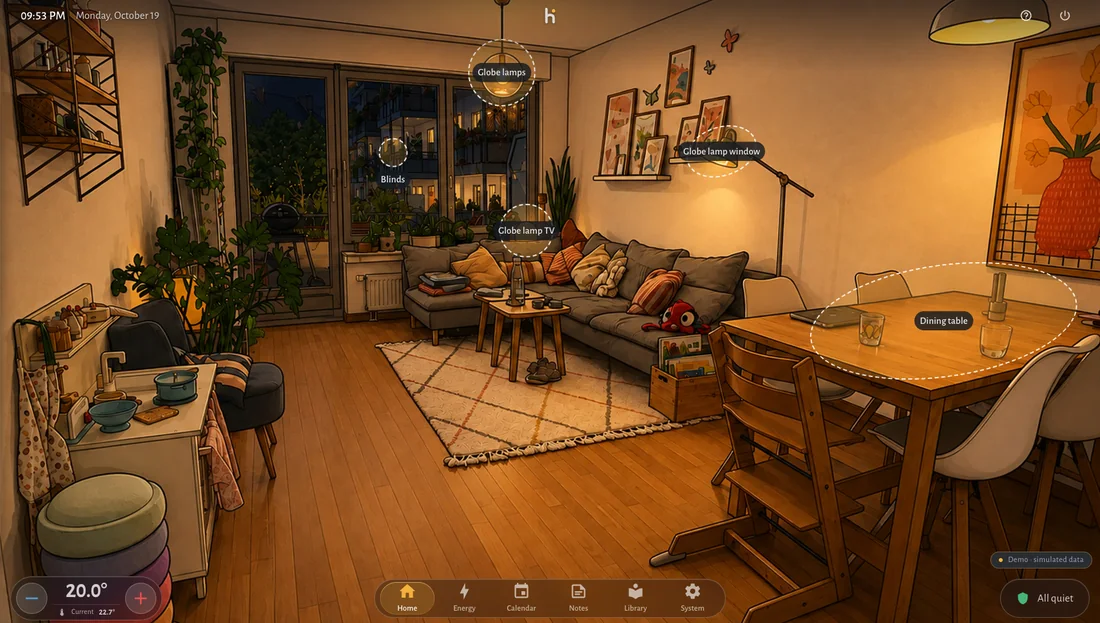
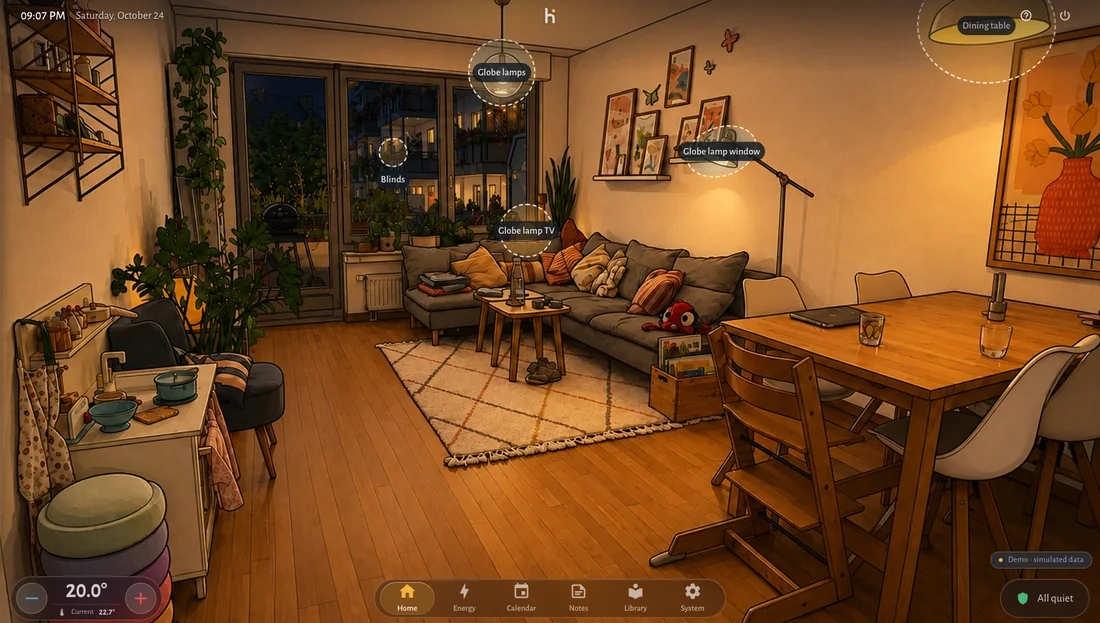
chore(public): promote private source 15e90aa587f2
Private-Source: 15e90aa587f27b325044e43b7ae89360269e97a0

diff --git a/website/index.html b/website/index.html
@@ -149,18 +149,28 @@
       <div class="wall-moment picture-moment">
         <div class="moment-copy">
           <h3>Tap the lamp<br>in the picture.</h3>
-          <p>Give each lamp its place in the room picture, and the picture becomes the switch. Tap the lamp by the sofa and it comes on; hold it for brightness. In the image-control view the controls step aside completely, and a double tap shows what is where. On the wall panel and in the iPad app.</p>
+          <p>Give each lamp its place in the room picture, and the picture becomes the switch. Tap the lamp by the sofa and it comes on; hold it for brightness. On the wall panel, a lamp that is off goes pale in the picture and gets its warm colour back the moment you tap it. In the image-control view the controls step aside completely, and a double tap shows what is where. Image control works on the wall panel and in the iPad app.</p>
           <a class="text-link" href="docs/using/home-screen/#three-views">How image control works <span aria-hidden="true">→</span></a>
         </div>
         <figure>
-          <a class="image-link" href="media/picture-control.webp" aria-label="View the full-size image-control screenshot">
-            <img src="media/picture-control-1100.webp"
-                 srcset="media/picture-control-700.webp 700w, media/picture-control-1100.webp 1100w, media/picture-control.webp 1696w"
+          <a class="image-link lamp-sequence" href="media/picture-control.webp" aria-label="View the image-control screenshot with every device labelled">
+            <img src="media/picture-lamps-0-1100.webp"
+                 srcset="media/picture-lamps-0-700.webp 700w, media/picture-lamps-0-1100.webp 1100w, media/picture-lamps-0.webp 2140w"
                  sizes="(min-width: 1440px) 850px, (min-width: 1101px) 62vw, calc(100vw - 48px)"
-                 width="1696" height="960" loading="lazy" decoding="async"
-                 alt="The living room in the evening with no control panel. Dashed outlines mark the globe lamps, the lamp by the window, the TV lamp, the blinds and the light over the dining table, each with its name.">
+                 width="2140" height="1204" loading="lazy" decoding="async"
+                 alt="The living room in the evening, up close. The TV lamp glows; the floor lamp and the globe lamp by the window are off and sit pale in the picture. A tap on each brings it on, and it takes back its warm colour.">
+            <img class="lamp-frame-1" src="media/picture-lamps-1-1100.webp"
+                 srcset="media/picture-lamps-1-700.webp 700w, media/picture-lamps-1-1100.webp 1100w, media/picture-lamps-1.webp 2140w"
+                 sizes="(min-width: 1440px) 850px, (min-width: 1101px) 62vw, calc(100vw - 48px)"
+                 width="2140" height="1204" loading="lazy" decoding="async" alt="">
+            <img class="lamp-frame-2" src="media/picture-lamps-2-1100.webp"
+                 srcset="media/picture-lamps-2-700.webp 700w, media/picture-lamps-2-1100.webp 1100w, media/picture-lamps-2.webp 2140w"
+                 sizes="(min-width: 1440px) 850px, (min-width: 1101px) 62vw, calc(100vw - 48px)"
+                 width="2140" height="1204" loading="lazy" decoding="async" alt="">
+            <span class="lamp-tap lamp-tap-1" aria-hidden="true"></span>
+            <span class="lamp-tap lamp-tap-2" aria-hidden="true"></span>
           </a>
-          <figcaption><span>Image control · web demo, after a double tap.</span><a href="media/picture-control.webp">Full size <span aria-hidden="true">↗</span></a></figcaption>
+          <figcaption><span>Image control · web demo. Lamps that are off sit pale in the picture.</span><a href="media/picture-control.webp">With labels <span aria-hidden="true">↗</span></a></figcaption>
         </figure>
       </div>
     </div>

diff --git a/app/src/lib/stresshaus/hostile-home.ts b/app/src/lib/stresshaus/hostile-home.ts
@@ -216,6 +216,14 @@ export function hostileHome(now: Date = new Date()): HostileHome {
     friendly_name: 'Alle Lichter', brightness: 200, color_mode: 'brightness', supported_color_modes: ['brightness'],
     entity_id: ['light.wohnzimmer_decke', 'light.wohnzimmer_stehlampe', 'light.gibt_es_nicht'],
   }, { area_id: 'wohnzimmer' });
+  /* Lichtgruppe neben ihren Lampen, eine davon aus (simon42, Cpt.Hardy, 0.47.0):
+     der Sammelwert heißt „an“. Die Szenen-Vorschau darf beim Zurückstellen
+     nicht über die Gruppe die ausgeschaltete Lampe wieder anschalten. Mitglieder
+     doppelt, mit Fremd-Domain und ohne Text, wie YAML-Gruppen sie tragen. */
+  add('light.wohnzimmer_lesegruppe', 'on', {
+    friendly_name: 'Leselicht', brightness: 128, color_mode: 'brightness', supported_color_modes: ['brightness'],
+    entity_id: ['light.wohnzimmer_decke', 'light.wohnzimmer', 'light.wohnzimmer_decke', 'switch.wohnzimmer', 42],
+  }, { area_id: 'wohnzimmer' });
   // Gleicher Objektname in drei Domains, alle sichtbar im selben Raum.
   add('light.wohnzimmer', 'off', { friendly_name: 'Wohnzimmer', supported_color_modes: ['brightness'], brightness: null }, { area_id: 'wohnzimmer' });
   add('switch.wohnzimmer', 'on', { friendly_name: 'Wohnzimmer' }, { area_id: 'wohnzimmer' });
@@ -782,4 +790,19 @@ export const HOSTILE_STANDBY_LAYOUTS: HostileStandbyLayout[] = [
   { name: 'Alles winzig auf einem Punkt', raw: '{"version":1,"elements":{"clock":{"x":50,"y":50,"size":1},"weather":{"x":50,"y":50,"size":1},"week":{"x":50,"y":50,"size":1},"shopping":{"x":50,"y":50,"size":1},"postits":{"x":50,"y":50,"size":1}}}' },
   { name: 'Fremde Elemente und Bruchteile', raw: '{"version":1,"elements":{"uhr":{"x":50,"y":50},"clock":{"x":33.333333,"y":66.666666,"size":2.5,"rotation":45},"__proto__":{"x":1,"y":1}}}' },
   { name: 'Tausend Elemente', raw: JSON.stringify({ version: 1, elements: Object.fromEntries(Array.from({ length: 1000 }, (_, i) => [`el${i}`, { x: i, y: i, size: 3 }])) }) },
+];
+
+/* Gespeicherte Lichtzonen (R67, seit 2026-10-24 im Produktionsbau): Wer
+   Zonen nur als Tippfläche gezogen hat, sieht sie jetzt als blassen Schleier,
+   sobald die Lampe aus ist. Der Parser muss jeden Stand zu Zonen im Bild und
+   in den Grenzen des Editors machen; die iOS-App liest denselben Schlüssel. */
+export interface HostileLightZones { name: string; raw: string }
+
+export const HOSTILE_LIGHT_ZONES: HostileLightZones[] = [
+  { name: 'Alter Kreis ohne Ellipse', raw: '{"version":1,"rooms":{"wohnzimmer":{"light.stehlampe":{"x":0.65,"y":0.3,"radius":0.03}}}}' },
+  { name: 'Riesenzone über dem ganzen Bild', raw: '{"version":1,"rooms":{"dach":{"light.decke":{"x":0.5,"y":0.1,"radius":5,"ry":3,"rotation":0}}}}' },
+  { name: 'Texte, null und Unendlich', raw: '{"version":1,"rooms":{"bad":{"light.spiegel":{"x":"0.2","y":null,"radius":1e999},"light.decke":{"x":0.5,"y":0.5,"radius":0.1,"ry":"flach","rotation":"schief"}}}}' },
+  { name: 'Am Rand und gedreht', raw: '{"version":1,"rooms":{"flur":{"light.flur":{"x":0,"y":1,"radius":0.4,"ry":0.008,"rotation":-725}}}}' },
+  { name: 'Raum als Liste, fremde Version', raw: '{"version":2,"rooms":[]}' },
+  { name: 'Tausend Lampen', raw: JSON.stringify({ version: 1, rooms: { gross: Object.fromEntries(Array.from({ length: 1000 }, (_, i) => [`light.l${i}`, { x: (i % 100) / 100, y: 0.5, radius: 0.02 }])) } }) },
 ];

diff --git a/app/src/lib/components/RoomEdit.svelte b/app/src/lib/components/RoomEdit.svelte
@@ -98,6 +98,9 @@
   let view = $state<'devices' | 'immersion' | 'background'>('devices');
   let selectedLightId = $state('');
   let imagePage = $state<'overview' | 'change' | 'setup'>('overview');
+  /* „Geräte zuweisen“ steht wieder in den Raumeinstellungen (simon42,
+     Cpt.Hardy, 0.47.0) — der Pfeil führt dorthin zurück, woher man kam. */
+  let immersionBack = $state<'devices' | 'background'>('background');
   /* Geräte im Bild (Owner 2026-10-19): jedes Gerät des Raums bekommt eine
      Stelle im Raumbild — Lampen eine Lichtzone, alle anderen einen Punkt. */
   const placeableDevices = $derived(roomImageDevices(room));
@@ -258,6 +261,7 @@
     releaseSearchLift();
     view = requestedView;
     imagePage = 'overview';
+    immersionBack = 'background';
     selectedLightId = untrack(() => requestedView === 'immersion'
       ? (roomImageDevices(room).find(device => !roomLightPlacements(room?.id)[device.entityId]) ?? roomImageDevices(room)[0])?.entityId ?? ''
       : '');
@@ -273,7 +277,8 @@
     openSceneEdit(roomId, scenes(roomId)[0]?.id ?? 'gemuetlich');
   }
 
-  function openImmersionEditor() {
+  function openImmersionEditor(back: 'devices' | 'background' = 'background') {
+    immersionBack = back;
     view = 'immersion';
     selectedLightId = placeableDevices[0]?.entityId ?? '';
   }
@@ -733,8 +738,8 @@
         {#snippet editHeader()}
           <header class="ld-header">
             {#if view !== 'devices'}
-              <button class="re-btn pressable" type="button" aria-label={view === 'immersion' || imagePage !== 'overview' ? m.room_background() : m.room_back_to_devices()}
-                      onclick={() => { if (view === 'background' && imagePage !== 'overview') imagePage = 'overview'; else view = view === 'immersion' ? 'background' : 'devices'; selectedLightId = ''; }}>
+              <button class="re-btn pressable" type="button" aria-label={(view === 'immersion' && immersionBack === 'background') || imagePage !== 'overview' ? m.room_background() : m.room_back_to_devices()}
+                      onclick={() => { if (view === 'background' && imagePage !== 'overview') imagePage = 'overview'; else view = view === 'immersion' ? immersionBack : 'devices'; selectedLightId = ''; }}>
                 <Icon name="i-chevron-left" cls="icon icon-md" />
               </button>
             {:else if adding}
@@ -898,7 +903,14 @@
               </span>
               <Icon name="i-chevron-right" cls="icon icon-md" />
             </button>
-
+            <button class="re-quick-entry pressable" type="button" onclick={() => openImmersionEditor('devices')}>
+              <span class="re-icon" aria-hidden="true"><Icon name="i-cursor-default-click" /></span>
+              <span class="re-label">
+                <span class="re-name">{m.room_assign_lamps()}</span>
+                <small class="re-meta">{m.room_set_light_positions()}</small>
+              </span>
+              <Icon name="i-chevron-right" cls="icon icon-md" />
+            </button>
           </div>
         </section>
         {/snippet}

diff --git a/website/site.css b/website/site.css
@@ -134,6 +134,21 @@ figcaption a { flex: none; padding-block: var(--space-3); }
 /* The picture as the switch: the wall moment's layout on the night ground. */
 .picture-moment { margin-top: var(--space-8); padding-top: var(--space-8); border-top: var(--rule-width) solid var(--night-line); }
 .picture-moment h3 { font-size: var(--heading-size); }
+/* Lampe im Bild an und aus (R67): drei Aufnahmen übereinander, die oberen
+   blenden nacheinander ein, ein Ring zeigt den Fingertipp auf der Lampe. Nur
+   Deckkraft und Transform; ohne Bewegung steht das mittlere Bild still. */
+a.lamp-sequence { position: relative; display: grid; grid-template-columns: minmax(0, 1fr); overflow: hidden; border-radius: var(--radius-sm); }
+.lamp-sequence img { grid-area: 1 / 1; width: 100%; height: auto; }
+.lamp-frame-1, .lamp-frame-2 { opacity: 0; animation: 9s var(--ease-out) infinite; }
+.lamp-frame-1 { animation-name: lamp-frame-1; }
+.lamp-frame-2 { animation-name: lamp-frame-2; }
+.lamp-tap { position: absolute; width: 7%; aspect-ratio: 1; translate: -50% -50%; border: 2px solid rgb(255 255 255 / 0.9); border-radius: 50%; opacity: 0; pointer-events: none; animation: 9s ease-out infinite; }
+.lamp-tap-1 { left: 79.7%; top: 38.7%; animation-name: lamp-tap-1; }
+.lamp-tap-2 { left: 48%; top: 18.5%; animation-name: lamp-tap-2; }
+@keyframes lamp-frame-1 { 0%, 27% { opacity: 0; } 34%, 90% { opacity: 1; } 100% { opacity: 0; } }
+@keyframes lamp-frame-2 { 0%, 58% { opacity: 0; } 65%, 90% { opacity: 1; } 100% { opacity: 0; } }
+@keyframes lamp-tap-1 { 0%, 22% { opacity: 0; transform: scale(0.4); } 25% { opacity: 1; } 33%, 100% { opacity: 0; transform: scale(1.3); } }
+@keyframes lamp-tap-2 { 0%, 53% { opacity: 0; transform: scale(0.4); } 56% { opacity: 1; } 64%, 100% { opacity: 0; transform: scale(1.3); } }
 .light-story .moment-copy p, .light-story figcaption { color: var(--night-secondary); }
 
 /* D: a wide wall view, then a readable phone screen. */
@@ -264,6 +279,8 @@ details > p { max-width: 75ch; margin-bottom: var(--space-5); color: var(--ink-s
 }
 @media (prefers-reduced-motion: reduce) {
   *, *::before, *::after { transition-duration: 0ms !important; scroll-behavior: auto !important; }
+  .lamp-frame-1, .lamp-frame-2, .lamp-tap { animation: none; }
+  .lamp-frame-1 { opacity: 1; }
 }
 @media (forced-colors: active) {
   .preview-radio:checked + label { outline: var(--focus-width) solid Highlight; }

diff --git a/app/src/lib/state/scene-preview.test.ts b/app/src/lib/state/scene-preview.test.ts
@@ -1,0 +1,38 @@
+import { describe, expect, it, vi } from 'vitest';
+import { runtime } from '../adapter/runtime.svelte.ts';
+import type { Command } from '../adapter/types.ts';
+import { appState } from './app.svelte.ts';
+import { deviceManager } from './device-manager.svelte.ts';
+import { addToScene, previewScene, restoreScenePreview, scenes } from './scene-manager.svelte.ts';
+
+/* simon42, Cpt.Hardy, 0.47.0: Nach dem Szenen-Editor blieb eine Lampe an. Die
+   HA-Lichtgruppe stand neben ihren Lampen im Raum; ihr Sammelwert „an“ schaltete
+   beim Zurückstellen auch die Lampe wieder ein, die vorher aus war. */
+describe('Szenen-Vorschau stellt eine Lichtgruppe über ihre Lampen zurück', () => {
+  it('lässt die Gruppe unberührt und stellt jede Lampe einzeln zurück', () => {
+    const room = appState.rooms.find((r) => r.lights.filter((l) => l.entityId.startsWith('light.')).length >= 2)!;
+    const [a, b] = room.lights.filter((l) => l.entityId.startsWith('light.')).map((l) => l.entityId);
+    const group = 'light.stresshaus_gruppe';
+    const sceneId = scenes(room.id)[0]!.id;
+    const known = new Set(deviceManager.catalog.map((item) => item.entityId));
+    deviceManager.catalog = [
+      ...deviceManager.catalog,
+      ...[a, b].filter((id) => !known.has(id)).map((entityId) => ({ entityId, domain: 'light' as const, name: entityId })),
+      { entityId: group, domain: 'light', name: 'Alle Lichter', capabilities: { dimmable: true, members: [a, b, 'light.gibt_es_nicht'] } },
+    ];
+    runtime.store.set(a, { on: true, brightness: 80 });
+    runtime.store.set(b, { on: false, brightness: 0 });
+    runtime.store.set(group, { on: true, brightness: 80 });
+    addToScene(room.id, sceneId, group);
+
+    previewScene(room.id, sceneId);
+    const sent: Command[] = [];
+    const dispatch = vi.spyOn(runtime, 'dispatch').mockImplementation((command) => { sent.push(command); });
+    restoreScenePreview();
+    dispatch.mockRestore();
+
+    expect(sent.find((command) => command.entityId === group)).toBeUndefined();
+    expect(sent.find((command) => command.entityId === a)?.service).toBe('turn_on');
+    expect(sent.find((command) => command.entityId === b)?.service).toBe('turn_off');
+  });
+});

diff --git a/app/src/lib/state/scene-manager.svelte.ts b/app/src/lib/state/scene-manager.svelte.ts
@@ -269,10 +269,30 @@ export function isSceneActive(roomId: string, sceneId: SceneId): boolean {
    Verlassen des Overlays stellt restoreScenePreview() ihn wieder her. */
 const previewSnapshot = new Map<string, unknown>();
 
+/* Eine Lichtgruppe aus Home Assistant steht oft neben ihren Lampen im Raum.
+   Ihr Sammelwert heißt „an“, sobald eine brennt — zurückgestellt schaltete sie
+   beim Verlassen auch die Lampen wieder an, die vorher aus waren (simon42,
+   Cpt.Hardy, 0.47.0). Deshalb werden ihre Lampen einzeln gemerkt. */
+function lightGroupMembers(entityId: string): readonly string[] {
+  return deviceManager.catalog.find((i) => i.entityId === entityId)?.capabilities?.members ?? [];
+}
+
 function rememberPreview(entityId: string): void {
-  if (previewSnapshot.has(entityId)) return;
-  const value = runtime.merged(entityId);
-  if (value !== undefined) previewSnapshot.set(entityId, value);
+  for (const id of [entityId, ...lightGroupMembers(entityId)]) {
+    if (previewSnapshot.has(id)) continue;
+    const value = runtime.merged(id);
+    if (value !== undefined) previewSnapshot.set(id, value);
+  }
+}
+
+/* Die Gruppe selbst bleibt unberührt, wenn jede ihrer Lampen sich selbst
+   zurückstellt; Mitglieder, die HA gar nicht kennt, zählen nicht. Kennt die
+   Vorschau eine Lampe nicht (anderer Raum, nicht abonniert), stellt weiter die
+   Gruppe zurück. */
+function restoredByMembers(entityId: string): boolean {
+  const members = lightGroupMembers(entityId)
+    .filter((id) => deviceManager.catalog.some((i) => i.entityId === id));
+  return members.length > 0 && members.every((id) => previewSnapshot.has(id));
 }
 
 /** Ein einzelnes Mitglied auf seinen Szenen-Zielzustand fahren. */
@@ -349,6 +369,7 @@ export async function importHaScene(roomId: string, scene: HaScene): Promise<Sce
 /** Zustand von vor dem Öffnen des Editors wiederherstellen. */
 export function restoreScenePreview(): void {
   for (const [entityId, value] of previewSnapshot) {
+    if (restoredByMembers(entityId)) continue;
     const restore = buildRestoreCommand(entityId, value);
     if (restore) runtime.dispatch(restore.command, restore.optimistic);
   }

diff --git a/app/src/lib/demo/demo-mode.ts b/app/src/lib/demo/demo-mode.ts
@@ -431,9 +431,38 @@ const DEMO_COVER_ENTITY = 'cover.demo_rollo_wohnzimmer';
    Gerätemanager samt Katalog in den Startpfad, den der Cutover-Test klein
    hält. Der Test in demo-mode.test.ts hält beide Fassungen zusammen. */
 export const DEMO_DEVICE_CONFIG_KEY = 'hmi:device-config:v1';
+/* Die Lampen der Demo sitzen auf den gezeichneten Lampen ihrer Raumbilder
+   (Owner 2026-10-24): Eine ausgeschaltete Lampe liegt blass im Bild, ein Tipp
+   auf sie bringt Licht und Farbe zurück. Koordinaten relativ zum Bild, Zonen
+   wie im Editor „Geräte zuweisen“; das Rollo ist ein Punkt auf der Balkontür.
+   Auch hier als Text, damit der Startpfad klein bleibt (Test hält es zusammen). */
+export const DEMO_LIGHT_PLACEMENT_KEY = 'hmi:immersion-light:v1';
+const DEMO_LIGHT_PLACEMENTS = {
+  wohnzimmer: {
+    'light.wohnzimmer_kugellampen': { x: 0.457, y: 0.199, radius: 0.03 },
+    'light.wohnzimmer_esstisch': { x: 0.889, y: 0.14, radius: 0.062, ry: 0.052 },
+    'light.wohnzimmer_fensterlampe': { x: 0.653, y: 0.298, radius: 0.032, ry: 0.022, rotation: -18 },
+    'light.wohnzimmer_tv': { x: 0.479, y: 0.398, radius: 0.024 },
+    [DEMO_COVER_ENTITY]: { x: 0.36, y: 0.3, radius: 0.16 },
+  },
+  schlafzimmer: {
+    'light.schlafzimmer_bett': { x: 0.658, y: 0.475, radius: 0.034, ry: 0.04 },
+  },
+  bad: {
+    'light.bad_spiegel': { x: 0.058, y: 0.062, radius: 0.058, ry: 0.05 },
+  },
+  kueche: {
+    'light.kueche_ledleiste': { x: 0.9, y: 0.328, radius: 0.105, ry: 0.03 },
+  },
+};
 
 export function installDemoDevices(storage: Pick<Storage, 'getItem' | 'setItem'> | null = typeof localStorage === 'undefined' ? null : localStorage): void {
   if (!IS_DEMO || !storage) return;
+  try {
+    if (storage.getItem(DEMO_LIGHT_PLACEMENT_KEY) === null) {
+      storage.setItem(DEMO_LIGHT_PLACEMENT_KEY, JSON.stringify({ version: 1, rooms: DEMO_LIGHT_PLACEMENTS }));
+    }
+  } catch { /* ohne Speicher keine Vorbelegung, die Demo läuft trotzdem */ }
   try {
     if (storage.getItem(DEMO_DEVICE_CONFIG_KEY) !== null) return;
     storage.setItem(DEMO_DEVICE_CONFIG_KEY, JSON.stringify({

diff --git a/app/src/lib/demo/demo-mode.test.ts b/app/src/lib/demo/demo-mode.test.ts
@@ -1,10 +1,28 @@
 import { describe, expect, it } from 'vitest';
-import { DEMO_DEVICE_CONFIG_KEY, installDemoDevices } from './demo-mode.ts';
+import { DEMO_DEVICE_CONFIG_KEY, DEMO_LIGHT_PLACEMENT_KEY, installDemoDevices } from './demo-mode.ts';
 import { DEVICE_CONFIG_KEY, parseDeviceConfig } from '../state/device-config.ts';
+import { IMMERSION_LIGHT_CONFIG_KEY, parseImmersionLightConfig } from '../state/immersion-light.ts';
 
 describe('demo devices', () => {
   it('uses the device manager key without importing it into the start path', () => {
     expect(DEMO_DEVICE_CONFIG_KEY).toBe(DEVICE_CONFIG_KEY);
+    expect(DEMO_LIGHT_PLACEMENT_KEY).toBe(IMMERSION_LIGHT_CONFIG_KEY);
+  });
+
+  it('places every demo lamp on its drawn lamp, unless the visitor placed them', () => {
+    const store = new Map<string, string>();
+    const storage = { getItem: (k: string) => store.get(k) ?? null, setItem: (k: string, v: string) => { store.set(k, v); } };
+    installDemoDevices(storage);
+    const seeded = store.get(IMMERSION_LIGHT_CONFIG_KEY);
+    if (!seeded) return; // nicht im Demo-Build: nichts vorbelegt
+    const rooms = parseImmersionLightConfig(seeded).rooms;
+    expect(Object.keys(rooms.wohnzimmer)).toHaveLength(5);
+    expect(rooms.schlafzimmer['light.schlafzimmer_bett']).toBeDefined();
+    expect(rooms.bad['light.bad_spiegel']).toBeDefined();
+    expect(rooms.kueche['light.kueche_ledleiste']).toBeDefined();
+    store.set(IMMERSION_LIGHT_CONFIG_KEY, '{"version":1,"rooms":{}}');
+    installDemoDevices(storage);
+    expect(store.get(IMMERSION_LIGHT_CONFIG_KEY)).toBe('{"version":1,"rooms":{}}');
   });
 
   it('seeds the ceiling fan only while nothing is stored yet', () => {

diff --git a/app/src/lib/components/RoomHero.svelte b/app/src/lib/components/RoomHero.svelte
@@ -78,15 +78,14 @@
   });
   const allAssignedLightsOff = $derived(simulation.lightsOff ?? roomLightsOff);
   const showImmersion = $derived(appState.heroSun?.day === false && !allAssignedLightsOff);
-  /* Werkstatt-Versuch „Lampe im Bild aus“ (Owner 2026-10-19): Das Raumbild
-     zeigt die Lampen tagsüber immer und nachts brennend, sobald eine im Raum
-     an ist. Eine ausgeschaltete Lampe mit Position bekommt deshalb einen
-     entsättigten, blassen Kreis; geht sie an, blendet er weich weg. Nur im
-     Dev-Bau (Werkstatt), bis Sam entscheidet. Zeigt die Bühne nachts ohnehin
-     die unbeleuchtete Fassung, wäre der Kreis doppelt — dann keiner. */
-  const LAMP_OFF_TRIAL = import.meta.env.DEV;
+  /* „Lampe im Bild aus“ (R67, Owner 2026-10-19, abgenommen 2026-10-24): Das
+     Raumbild zeigt die Lampen tagsüber immer und nachts brennend, sobald eine
+     im Raum an ist. Eine ausgeschaltete Lampe mit Position bekommt deshalb
+     eine entsättigte, blasse Zone; geht sie an, blendet sie weich weg. Zeigt
+     die Bühne nachts ohnehin die unbeleuchtete Fassung, wäre die Zone doppelt
+     — dann keine. */
   const nightImage = $derived(appState.heroSun ? !appState.heroSun.day : appState.theme === 'dark');
-  const lampShades = $derived(LAMP_OFF_TRIAL && !(nightImage && allAssignedLightsOff)
+  const lampShades = $derived(!(nightImage && allAssignedLightsOff)
     ? renderedLights.map((light) => ({ ...light, off: simulation.lightsOff ?? light.value?.on !== true }))
     : []);
   /* Trübes Wetter (Paket 13): Hat das Bildset eine trübe Fassung, zeigt die

diff --git a/app/src/lib/state/immersion-light.test.ts b/app/src/lib/state/immersion-light.test.ts
@@ -7,6 +7,8 @@ import {
   saveImmersionLightConfig,
 } from './immersion-light.ts';
 import { immersionLight, rehydrateImmersionLight } from './immersion-light.svelte.ts';
+import { HOSTILE_LIGHT_ZONES } from '../stresshaus/hostile-home.ts';
+import { LIGHT_ZONE_MAX, LIGHT_ZONE_MIN } from './immersion-light.ts';
 
 afterEach(() => vi.unstubAllGlobals());
 
@@ -92,5 +94,16 @@ describe('immersion light config', () => {
     expect(rooms['light.schirm']).toEqual({ x: 0.5, y: 0.25, radius: 0.12, ry: 0.06, rotation: 30 });
     expect(rooms['light.dreh'].rotation).toBe(-180);
     expect(rooms['light.kaputt']).toEqual({ x: 0.5, y: 0.25, radius: 0.12 });
+  });
+
+  it.each(HOSTILE_LIGHT_ZONES)('Stresshaus „$name“: jede Zone liegt im Bild und in den Grenzen des Editors', ({ raw }) => {
+    expect(() => parseImmersionLightConfig(raw)).not.toThrow();
+    for (const placements of Object.values(parseImmersionLightConfig(raw).rooms)) {
+      for (const zone of Object.values(placements)) {
+        for (const unit of [zone.x, zone.y]) expect(unit >= 0 && unit <= 1).toBe(true);
+        for (const axis of [zone.radius, zone.ry ?? zone.radius]) expect(axis >= LIGHT_ZONE_MIN && axis <= LIGHT_ZONE_MAX).toBe(true);
+        expect(Math.abs(zone.rotation ?? 0)).toBeLessThanOrEqual(180);
+      }
+    }
   });
 });

diff --git a/app/src/lib/stresshaus/stresshaus.test.ts b/app/src/lib/stresshaus/stresshaus.test.ts
@@ -79,6 +79,17 @@ function listsOf(value: unknown, path = ''): [string, unknown[]][] {
   return Object.entries(value).flatMap(([key, inner]) => listsOf(inner, path ? `${path}.${key}` : key));
 }
 
+describe('Stresshaus: Lichtgruppe neben ihren Lampen (simon42, Cpt.Hardy, 0.47.0)', () => {
+  it('kennt die Lampen der Gruppe, Kennungen ohne Text fallen weg', () => {
+    const home = hostileHomeWith({}, NOW);
+    const group = home.states.find((s) => s.entity_id === 'light.wohnzimmer_lesegruppe');
+    expect(catalogItemFromHaState(group as never)?.capabilities?.members)
+      .toEqual(['light.wohnzimmer_decke', 'light.wohnzimmer', 'light.wohnzimmer_decke', 'switch.wohnzimmer']);
+    const plain = home.states.find((s) => s.entity_id === 'light.wohnzimmer_decke');
+    expect(catalogItemFromHaState(plain as never)?.capabilities?.members).toBeUndefined();
+  });
+});
+
 describe('Stresshaus', () => {
   it.each(SEEDS)('Startzahl %i: die Einrichtung macht daraus einen gültigen Haushalt', (seed) => {
     const suggestion = buildSetupHouseholdSuggestion(snapshotOf(hostileHomeWith({ seed }, NOW)));

diff --git a/app/src/lib/components/SceneEdit.svelte b/app/src/lib/components/SceneEdit.svelte
@@ -220,13 +220,15 @@
 
   /* Die gewählte Szene wird als Vorschau gefahren (Öffnen + Tab-Wechsel).
      untrack: die Vorschau liest die Config — ohne das liefe der Effect nach
-     jeder Zustandsänderung erneut. */
+     jeder Zustandsänderung erneut und schaltete beim Einstellen einer Lampe
+     den ganzen Raum noch einmal durch. */
   $effect(() => {
     if (sceneEdit.mode !== 'open') return;
     const roomId = sceneEdit.roomId;
     const sceneId = sceneEdit.sceneId;
-    if (!sceneOptions.some((option) => option.id === sceneId)) return;
-    untrack(() => previewScene(roomId, sceneId));
+    untrack(() => {
+      if (scenes(roomId).some((option) => option.id === sceneId)) previewScene(roomId, sceneId);
+    });
   });
 
   // animationend-Fallback (deckt prefers-reduced-motion: 0ms ab)
